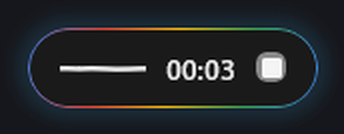
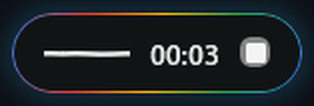
docs: crop the README pills to their content, drop the Mac pill renders and the tall drag GIF
The offscreen Mac renders showed faceted circles, so the README shows the
Windows pill only. Stills sit on the GitHub page colour; the hero GIF
keeps a light card so the white idle circle stays visible.

Claude-Session: https://claude.ai/code/session_012krnHNLgDwhyCCJgELEgBg

Changed region(s): [[0.0287, 0.1132, 0.9745, 0.9057], [0.4586, 0.3396, 0.8599, 0.6509]]

diff --git a/README.md b/README.md
@@ -27,16 +27,7 @@
   <a href="CONTRIBUTING.md"><strong>Contribute</strong></a>
 </p>
 
-<table>
-  <tr>
-    <th>Windows</th>
-    <th>macOS</th>
-  </tr>
-  <tr>
-    <td width="50%" align="center"><picture><source media="(prefers-color-scheme: light)" srcset="docs/readme/pill-states-windows-light.gif"><img src="docs/readme/pill-states-windows-dark.gif" alt="The Dimmy pill on Windows: idle, hover, recording with timer, transcribing, processing, done"></picture></td>
-    <td width="50%" align="center"><picture><source media="(prefers-color-scheme: light)" srcset="docs/readme/pill-states-mac-light.gif"><img src="docs/readme/pill-states-mac-dark.gif" alt="The Dimmy pill on macOS: idle, hover, recording with timer, transcribing, processing, done"></picture></td>
-  </tr>
-</table>
+<p align="center"><picture><source media="(prefers-color-scheme: light)" srcset="docs/readme/pill-states-windows-light.gif"><img src="docs/readme/pill-states-windows-dark.gif" alt="The Dimmy pill on Windows: idle, hover, recording with timer, transcribing, processing, done"></picture></p>
 
 Press a shortcut and speak. A small pill shows that Dimmy listens. Release the keys, and the text goes into the app that has focus. Dimmy can also record a whole call and write a recap.
 
@@ -48,26 +39,16 @@ The pill stays on top of your other windows. Drag it to a corner or to the middl
 
 <table>
   <tr>
-    <th>Drag and dock (Windows)</th>
-    <th>Docked in a corner (Windows)</th>
+    <th>Docked in a corner</th>
+    <th>Docked on a side, vertical</th>
   </tr>
   <tr>
-    <td rowspan="5" width="260" align="center" valign="top"><picture><source media="(prefers-color-scheme: light)" srcset="docs/readme/pill-dock-windows-light.gif"><img src="docs/readme/pill-dock-windows-dark.gif" width="249" alt="A real drag of the pill on Windows: the dock zones appear, the pill snaps to the middle of the right edge and turns vertical, then snaps back into the bottom-right corner"></picture></td>
-    <td align="center"><picture><source media="(prefers-color-scheme: light)" srcset="docs/readme/pill-corner-windows-light.png"><img src="docs/readme/pill-corner-windows-dark.png" alt="The recording pill docked in the bottom-right corner on Windows, with the timer and the stop button"></picture></td>
-  </tr>
-  <tr>
-    <th>Docked on a side, vertical (Windows, macOS)</th>
-  </tr>
-  <tr>
-    <td align="center"><picture><source media="(prefers-color-scheme: light)" srcset="docs/readme/pill-side-windows-light.png"><img src="docs/readme/pill-side-windows-dark.png" alt="The vertical recording pill on the right edge on Windows"></picture>&nbsp;&nbsp;&nbsp;<picture><source media="(prefers-color-scheme: light)" srcset="docs/readme/pill-side-mac-light.png"><img src="docs/readme/pill-side-mac-dark.png" alt="The vertical recording pill on the left edge on macOS"></picture></td>
-  </tr>
-  <tr>
-    <th>Settings → Pill overlay (Windows)</th>
-  </tr>
-  <tr>
-    <td align="center"><picture><source media="(prefers-color-scheme: light)" srcset="docs/readme/settings-win-pill-light.png"><img src="docs/readme/settings-win-pill-dark.png" width="520" alt="The Pill overlay page in Windows Settings: position grid, border style, waveform style"></picture></td>
+    <td align="center" valign="middle"><picture><source media="(prefers-color-scheme: light)" srcset="docs/readme/pill-corner-windows-light.png"><img src="docs/readme/pill-corner-windows-dark.png" alt="The recording pill docked in the bottom-right corner, with the timer and the stop button"></picture></td>
+    <td align="center"><picture><source media="(prefers-color-scheme: light)" srcset="docs/readme/pill-side-windows-light.png"><img src="docs/readme/pill-side-windows-dark.png" alt="The vertical recording pill on the right edge"></picture></td>
   </tr>
 </table>
+
+<p align="center"><picture><source media="(prefers-color-scheme: light)" srcset="docs/readme/settings-win-pill-light.png"><img src="docs/readme/settings-win-pill-dark.png" width="520" alt="The Pill overlay page in Windows Settings: position grid, border style, waveform style"></picture><br><sub>Settings → Pill overlay</sub></p>
 
 ## Features
 
